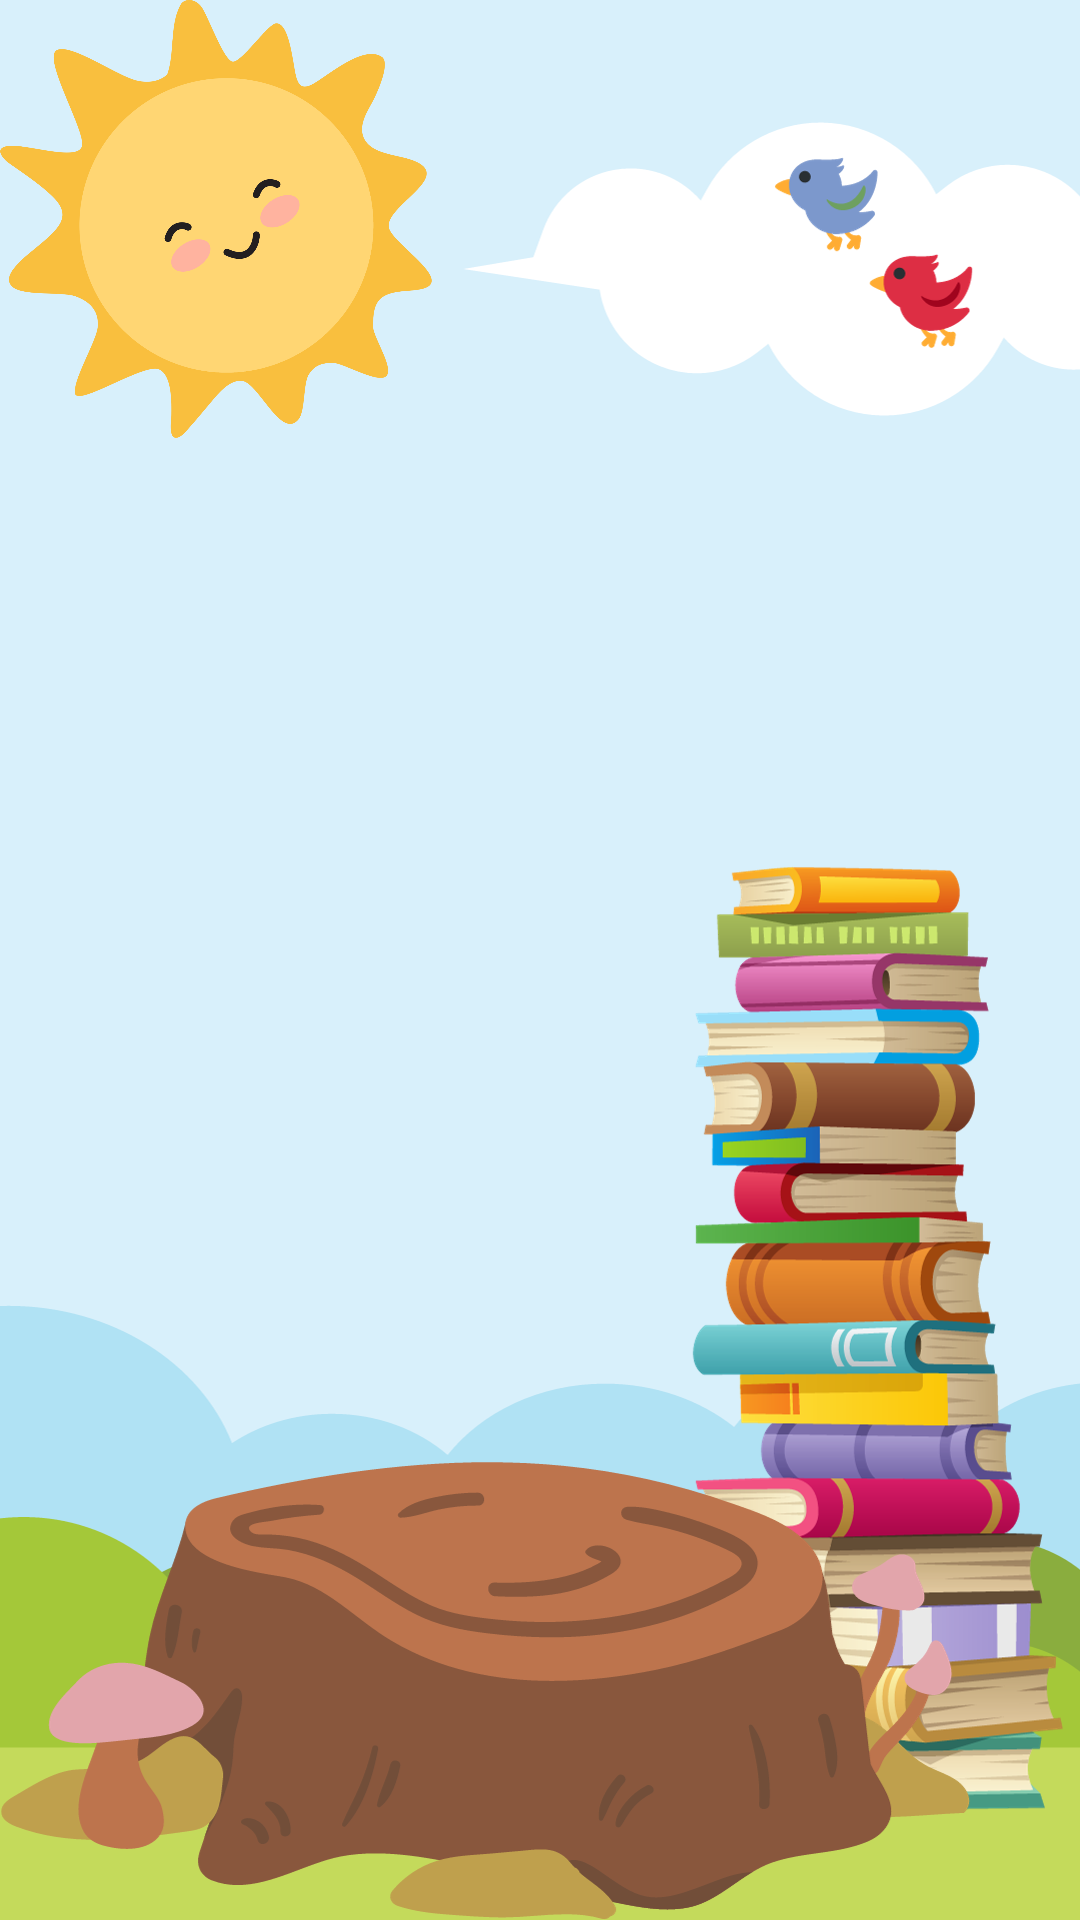
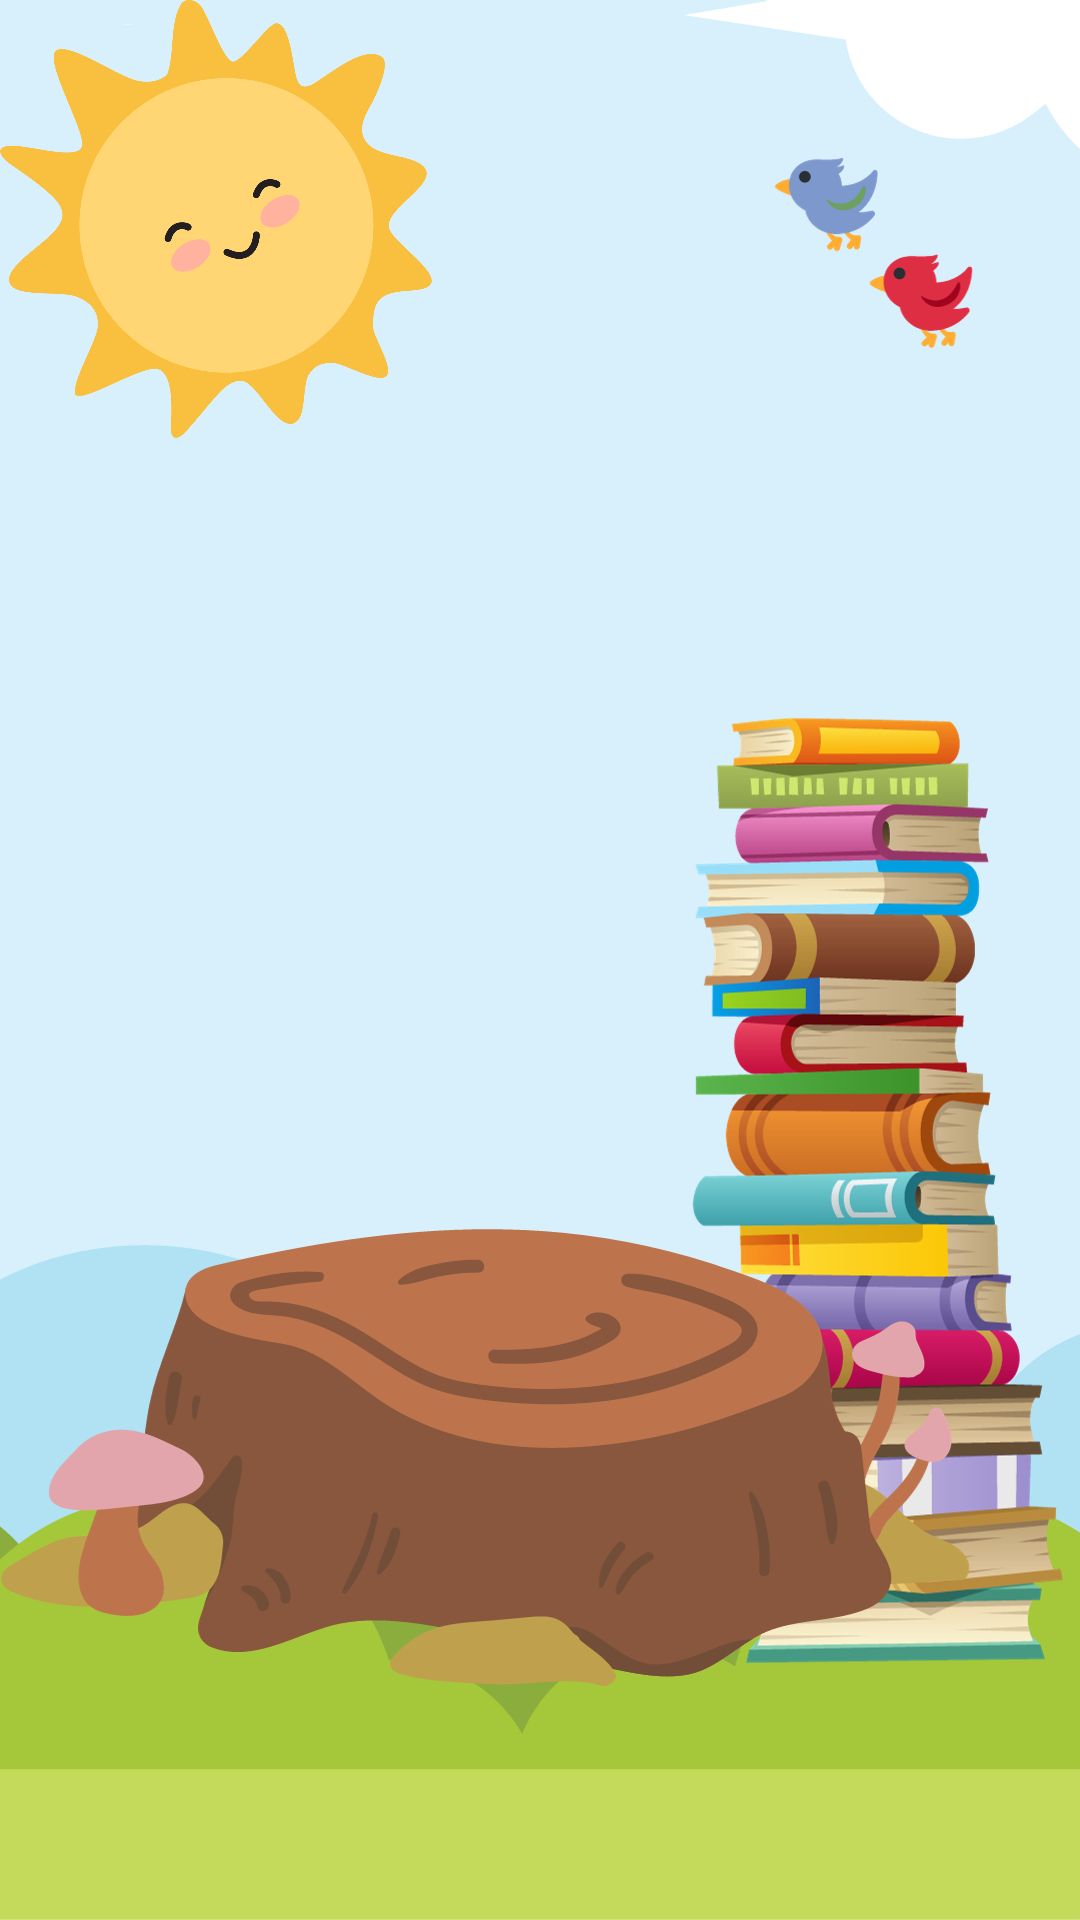
alignments

diff --git a/static/styles.css b/static/styles.css
@@ -82,10 +82,11 @@ body {
 
 #character-long-name {
     margin-top: 40px;  /* Increase this based on how far down you want to push the character name */
+    display: none;
 }
 
 #chat-bubble {
-    margin-top: 60px;  /* Increase this based on how far down you want to push the chat bubble */
+    margin-top: 90px;  /* Increase this based on how far down you want to push the chat bubble */
     margin-bottom: 10px;
     background-color: rgba(249, 249, 249, 0.5);
 }
